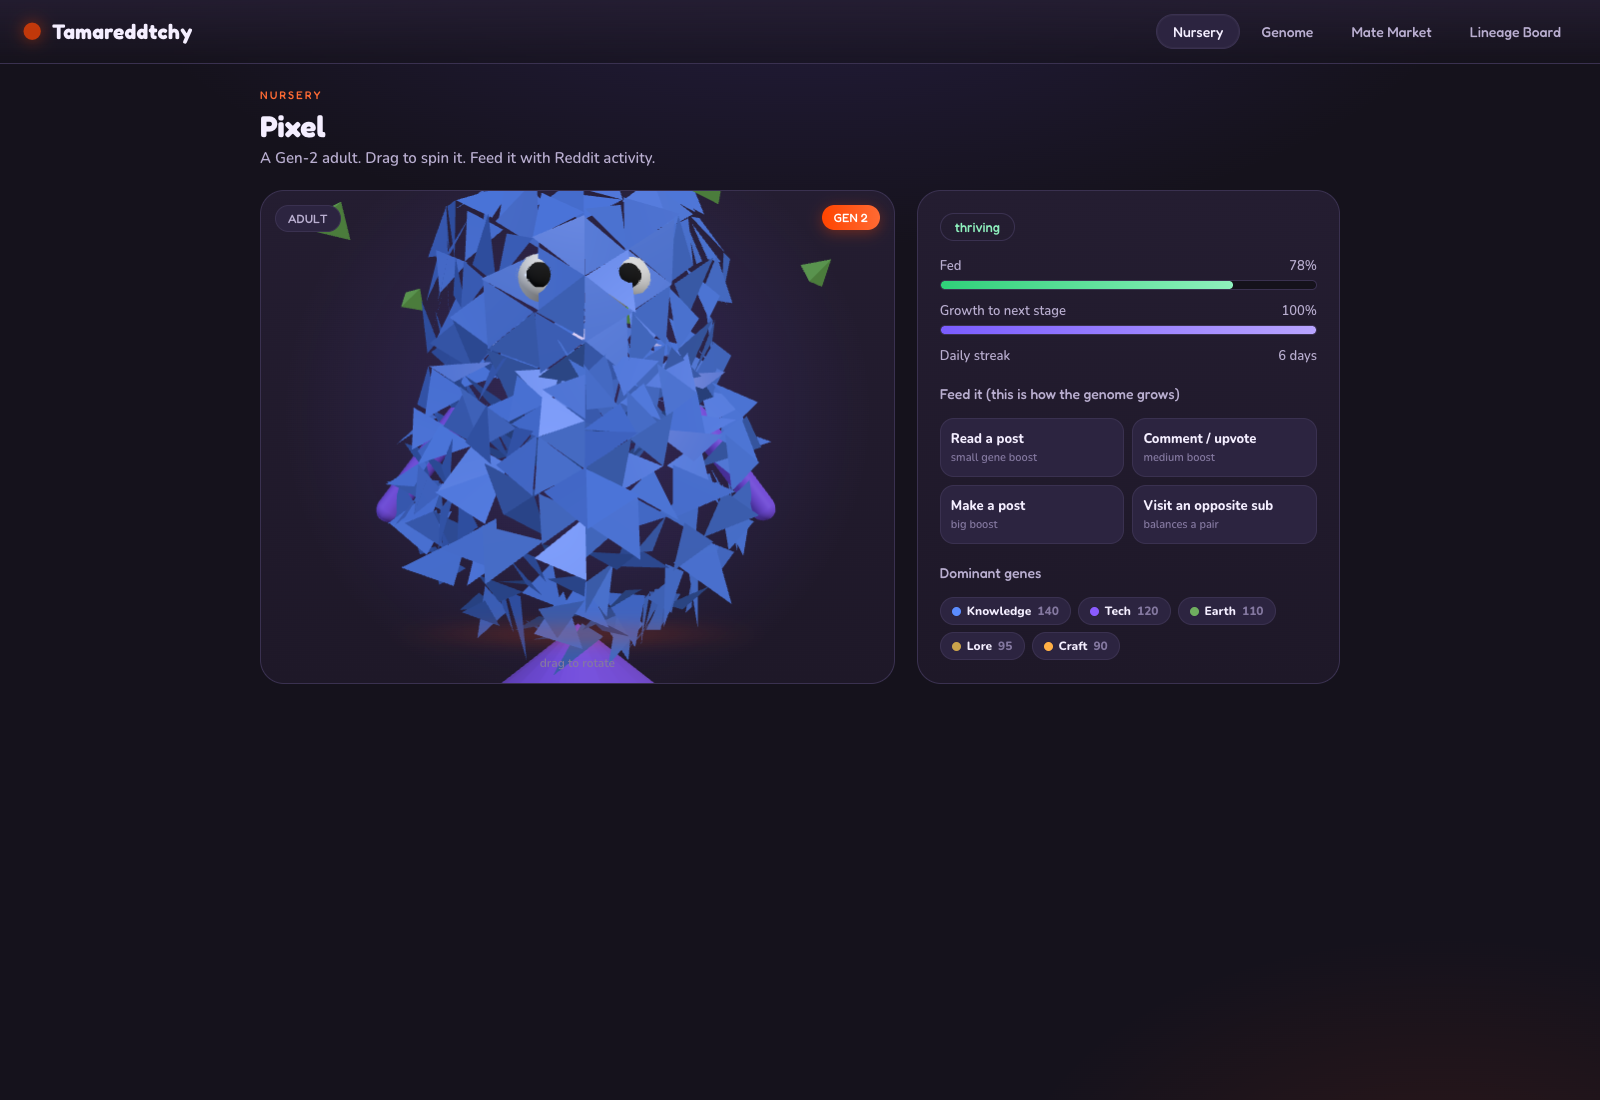
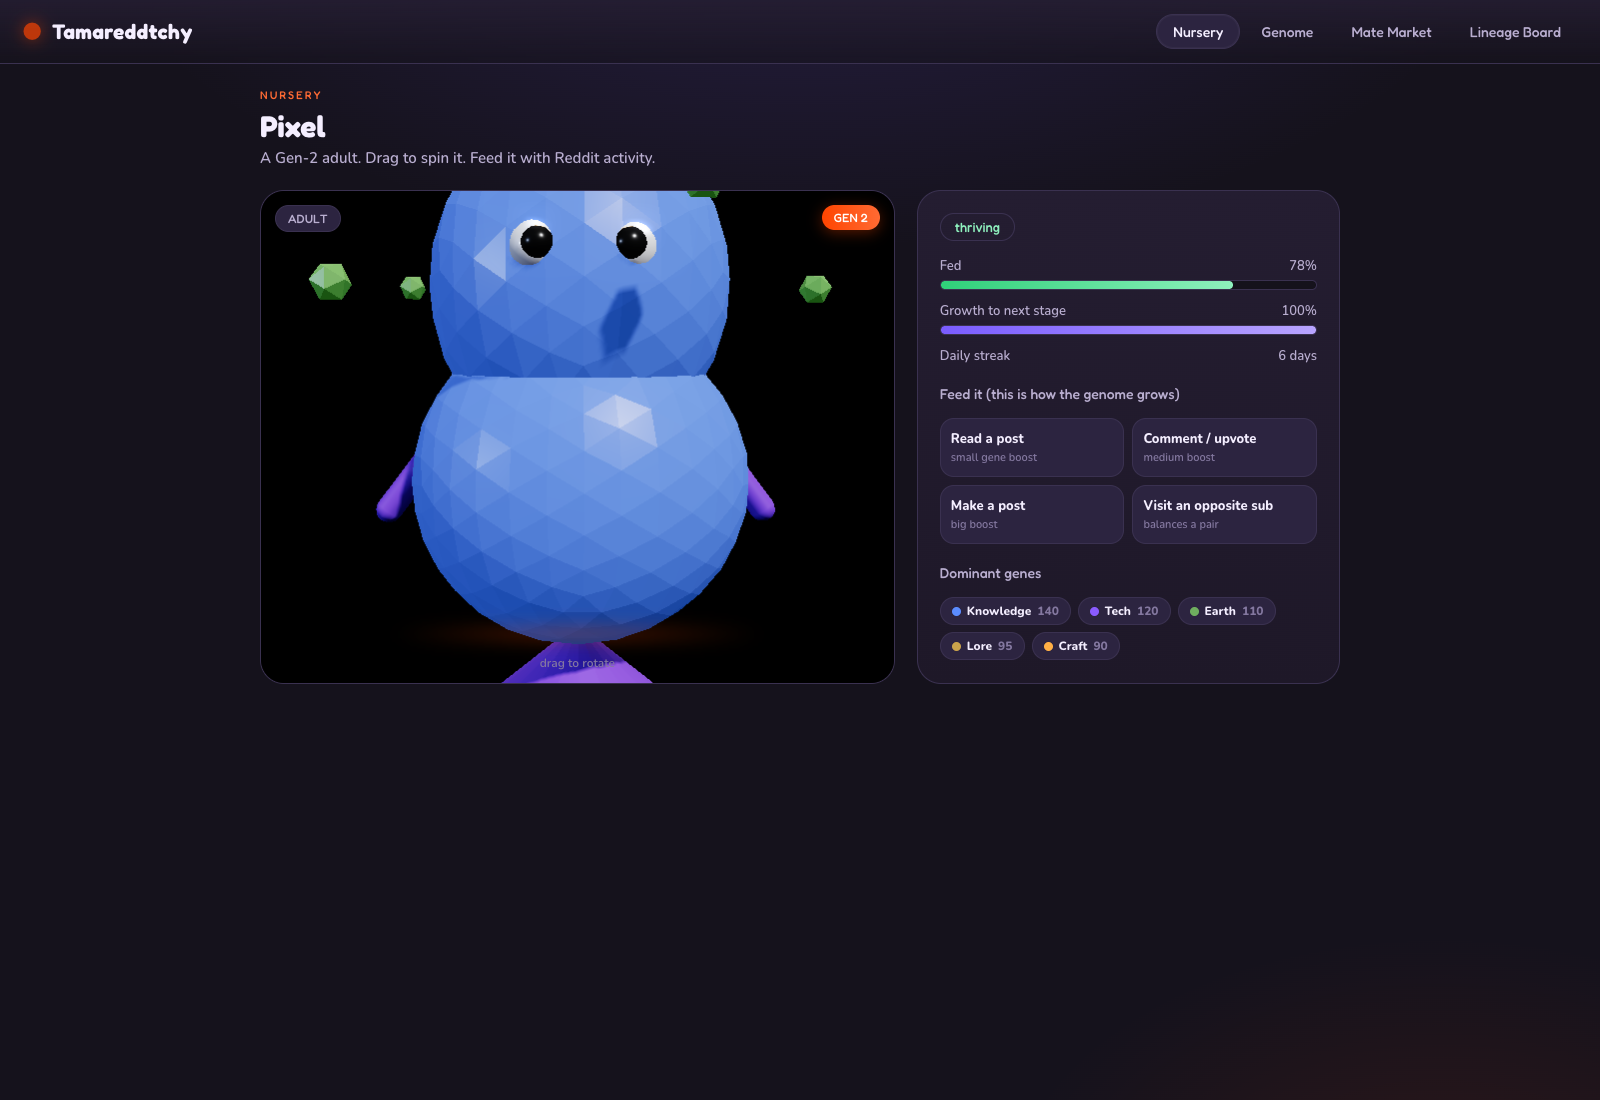
feat: visual upgrade (smooth gooey body, nose/mouth, bloom, soft shadows, filmic tone)
- spatially-coherent blob displacement (lumps not spikes)
- nose + mouth as sub-features of the Tech/Heart face pair
- richer Earth/Fiction attributes (motes, horns, wizard orb)
- EffectComposer bloom, PCF soft shadows, ACES tone mapping

Changed region(s): [[0.1562, 0.1545, 0.5625, 0.6182]]

diff --git a/src/client/render.ts b/src/client/render.ts
@@ -44,33 +44,43 @@ export function creatureColors(genome: Genome): CreatureColors {
   return { primary: GENE_COLOR[a], secondary: GENE_COLOR[b ?? a] };
 }
 
-// A soft, organic blob: an icosphere we can dent. Reused for every body part so
-// the whole creature reads as one squishy material.
+// A soft, organic blob: a smooth icosphere we dent with low-frequency, spatially
+// coherent noise so it reads as gooey lumps, not spikes. Reused for every body
+// part so the whole creature looks like one squishy material.
 function blob(radius: number, detail: number, color: number, wobble = 0): THREE.Mesh {
   const geo = new THREE.IcosahedronGeometry(radius, detail);
   if (wobble > 0) {
     const pos = geo.attributes.position;
+    const amp = Math.min(0.22, wobble * 0.16); // damped: lumps, never thorns
     for (let i = 0; i < pos.count; i++) {
-      const n = 1 + (pseudoNoise(i) - 0.5) * wobble;
-      pos.setXYZ(i, pos.getX(i) * n, pos.getY(i) * n, pos.getZ(i) * n);
+      const x = pos.getX(i), y = pos.getY(i), z = pos.getZ(i);
+      // Sum of a few low-frequency sine bands keyed on POSITION (not index), so
+      // neighbouring vertices move together into smooth bulges.
+      const d =
+        Math.sin(x * 1.7 + 0.5) * Math.cos(y * 1.9) +
+        Math.sin(y * 2.3 + 1.3) * Math.cos(z * 1.5) +
+        Math.sin(z * 1.6 + 2.1) * Math.cos(x * 2.0);
+      const n = 1 + (d / 3) * amp;
+      pos.setXYZ(i, x * n, y * n, z * n);
     }
     pos.needsUpdate = true;
-    geo.computeVertexNormals();
   }
-  const mat = new THREE.MeshStandardMaterial({
-    color,
-    roughness: 0.45,
-    metalness: 0.05,
-    flatShading: false,
-  });
-  return new THREE.Mesh(geo, mat);
+  geo.computeVertexNormals();
+  return new THREE.Mesh(geo, skinMaterial(color));
 }
 
-// Deterministic per-vertex jitter (no Math.random: keeps render reproducible and
-// testable). Cheap hash -> 0..1.
-function pseudoNoise(i: number): number {
-  const x = Math.sin(i * 12.9898) * 43758.5453;
-  return x - Math.floor(x);
+// Soft, slightly translucent "squishy pet" skin. A touch of emissive in the
+// body color fakes subsurface glow; low roughness gives a wet, alive sheen.
+function skinMaterial(color: number): THREE.MeshStandardMaterial {
+  const c = new THREE.Color(color);
+  const emissive = c.clone().multiplyScalar(0.18);
+  return new THREE.MeshStandardMaterial({
+    color,
+    roughness: 0.32,
+    metalness: 0.0,
+    emissive,
+    flatShading: false,
+  });
 }
 
 // Within-pair lean in [-1, 1]; positive favors the A (first) gene of the pair.
@@ -114,7 +124,7 @@ export function buildCreature(
   // --- Torso (pair: craft / mayhem). Order = tidy sphere, chaos = lumpy blob. ---
   const torsoLean = lean(genome, "craft", "mayhem"); // + = order, - = chaos
   const chaos = (0.5 - torsoLean / 2) * 0.9 + mutate * 0.5;
-  const body = blob(1, 4, colors.primary, chaos);
+  const body = blob(1, 5, colors.primary, chaos); // higher detail = gooier
   body.scale.set(1, 1.05 - torsoLean * 0.15, 1);
   group.add(body);
 
@@ -122,29 +132,62 @@ export function buildCreature(
   const headGroup = new THREE.Group();
   const headLean = lean(genome, "knowledge", "vitality");
   const headSize = 0.55 + magnitude(genome, "knowledge", "vitality") * 0.25 + (headLean > 0 ? 0.12 : 0);
-  const head = blob(headSize, 3, colors.primary, 0.15 + mutate * 0.3);
+  const head = blob(headSize, 4, colors.primary, 0.15 + mutate * 0.3);
   head.scale.y = headLean > 0 ? 1.15 : 0.92; // domed vs sleek
   headGroup.add(head);
-  headGroup.position.set(0, 1.05, 0);
+  // Sit the head above and slightly forward of the torso so the face is never
+  // occluded by the body's lumps.
+  headGroup.position.set(0, 1.15, 0.12);
 
-  // --- Eyes / face (pair: tech / heart). Tech = small visor eyes, heart = big. ---
+  // --- Face: eyes, nose, mouth (all the pair: tech / heart). ---
+  // Tech leans toward a small, cool, deadpan visor face; Heart leans toward big
+  // warm eyes, a button nose, and a wide smile. Nose and mouth are sub-features
+  // of the same pair, so the face reads as one coherent expression.
   const eyeLean = lean(genome, "tech", "heart"); // + tech, - heart
-  const eyeR = eyeLean < 0 ? 0.22 : 0.13; // heart = big doe eyes
+  const warm = (1 - eyeLean) / 2; // 0 = full tech, 1 = full heart
+  const eyeR = 0.13 + warm * 0.11; // heart = big doe eyes
+  const faceZ = headSize * 0.82;
   const eyes: THREE.Mesh[] = [];
   for (const dx of [-0.22, 0.22]) {
     const white = new THREE.Mesh(
-      new THREE.SphereGeometry(eyeR, 16, 16),
-      new THREE.MeshStandardMaterial({ color: 0xffffff, roughness: 0.2 }),
+      new THREE.SphereGeometry(eyeR, 20, 20),
+      new THREE.MeshStandardMaterial({ color: 0xffffff, roughness: 0.12, metalness: 0 }),
     );
-    white.position.set(dx, 0.02, headSize * 0.82);
+    white.position.set(dx, 0.04, faceZ);
     const pupil = new THREE.Mesh(
-      new THREE.SphereGeometry(eyeR * 0.55, 12, 12),
-      new THREE.MeshStandardMaterial({ color: 0x161616 }),
+      new THREE.SphereGeometry(eyeR * 0.55, 14, 14),
+      new THREE.MeshStandardMaterial({ color: 0x161616, roughness: 0.2 }),
     );
-    pupil.position.set(dx, 0.02, headSize * 0.82 + eyeR * 0.6);
-    headGroup.add(white, pupil);
+    pupil.position.set(dx, 0.04, faceZ + eyeR * 0.62);
+    // tiny catchlight for the "alive" look
+    const glint = new THREE.Mesh(
+      new THREE.SphereGeometry(eyeR * 0.18, 8, 8),
+      new THREE.MeshStandardMaterial({ color: 0xffffff, emissive: 0x888888 }),
+    );
+    glint.position.set(dx + eyeR * 0.2, 0.04 + eyeR * 0.25, faceZ + eyeR * 0.7);
+    headGroup.add(white, pupil, glint);
     eyes.push(white);
   }
+
+  // Nose: a small button (heart) shrinking to almost nothing (tech).
+  const noseR = 0.04 + warm * 0.06;
+  const nose = new THREE.Mesh(
+    new THREE.SphereGeometry(noseR, 12, 12),
+    skinMaterial(colors.secondary),
+  );
+  nose.position.set(0, -0.06, faceZ + 0.04);
+  headGroup.add(nose);
+
+  // Mouth: a torus arc. Heart = wide upward smile; tech = small flat line.
+  const smile = -0.4 + warm * 1.2; // controls how curved/wide
+  const mouth = new THREE.Mesh(
+    new THREE.TorusGeometry(0.08 + warm * 0.1, 0.022, 8, 16, Math.PI * (0.6 + warm * 0.8)),
+    new THREE.MeshStandardMaterial({ color: 0x2a1418, roughness: 0.5 }),
+  );
+  mouth.position.set(0, -0.2 - warm * 0.04, faceZ);
+  mouth.rotation.z = Math.PI + (smile < 0 ? Math.PI : 0); // flip for frown vs smile
+  headGroup.add(mouth);
+
   group.add(headGroup);
 
   // --- Arms (pair: pulse / lore). Now = antenna arms, forever = scroll arms. ---
@@ -188,31 +231,47 @@ export function buildCreature(
   }
   group.add(legGroup);
 
-  // --- Accessory / aura (pair: earth / fiction). Real = leaf/star, dream = hat. ---
+  // --- Attributes / aura (pair: earth / fiction). Real = orbiting nature motes
+  // and little horns; dream = wizard hat plus a glowing magic orb. The number of
+  // attributes scales with the pair magnitude, so a developed creature is more
+  // decorated. Generation adds extra motes on top, so prestige is visible. ---
   const accGroup = new THREE.Group();
   const accLean = lean(genome, "earth", "fiction"); // + earth, - fiction
   const accMag = magnitude(genome, "earth", "fiction");
   if (accMag > 0.12) {
     if (accLean >= 0) {
-      // Earth: little orbiting leaves/stars
-      const n = 3 + Math.round(accMag * 3);
+      // Earth: glowing orbiting motes + two little nub horns.
+      const n = 3 + Math.round(accMag * 3) + Math.round(mutate * 2);
       for (let i = 0; i < n; i++) {
         const ang = (i / n) * Math.PI * 2;
         const star = new THREE.Mesh(
-          new THREE.TetrahedronGeometry(0.12),
-          new THREE.MeshStandardMaterial({ color: GENE_COLOR.earth, emissive: 0x224411, roughness: 0.4 }),
+          new THREE.IcosahedronGeometry(0.1, 0),
+          new THREE.MeshStandardMaterial({ color: GENE_COLOR.earth, emissive: 0x2e5a1c, emissiveIntensity: 0.8, roughness: 0.35 }),
         );
-        star.position.set(Math.cos(ang) * 1.5, 1.3, Math.sin(ang) * 1.5);
+        star.position.set(Math.cos(ang) * 1.5, 1.2 + Math.sin(ang * 2) * 0.2, Math.sin(ang) * 1.5);
         accGroup.add(star);
       }
+      for (const dx of [-0.22, 0.22]) {
+        const horn = new THREE.Mesh(
+          new THREE.ConeGeometry(0.06, 0.22, 10),
+          skinMaterial(colors.secondary),
+        );
+        horn.position.set(dx, 1.05 + headSize * 0.85, 0);
+        accGroup.add(horn);
+      }
     } else {
-      // Fiction: a wizard hat / cape
+      // Fiction: a wizard hat plus a floating glowing orb.
       const hat = new THREE.Mesh(
-        new THREE.ConeGeometry(0.45, 0.9, 16),
-        new THREE.MeshStandardMaterial({ color: GENE_COLOR.fiction, roughness: 0.4, emissive: 0x1a0033 }),
+        new THREE.ConeGeometry(0.45, 0.9, 20),
+        new THREE.MeshStandardMaterial({ color: GENE_COLOR.fiction, roughness: 0.35, emissive: 0x2a0a55, emissiveIntensity: 0.7 }),
       );
       hat.position.set(0, 1.05 + headSize, 0);
-      accGroup.add(hat);
+      const orb = new THREE.Mesh(
+        new THREE.SphereGeometry(0.13, 16, 16),
+        new THREE.MeshStandardMaterial({ color: 0xffffff, emissive: GENE_COLOR.fiction, emissiveIntensity: 1.4, roughness: 0.1 }),
+      );
+      orb.position.set(0.9, 0.9, 0.3);
+      accGroup.add(hat, orb);
     }
   }
   group.add(accGroup);

diff --git a/src/client/scene.ts b/src/client/scene.ts
@@ -4,6 +4,9 @@
 // so this is not unit-tested; the pure geometry in render.ts is.
 
 import * as THREE from "three";
+import { EffectComposer } from "three/examples/jsm/postprocessing/EffectComposer.js";
+import { RenderPass } from "three/examples/jsm/postprocessing/RenderPass.js";
+import { UnrealBloomPass } from "three/examples/jsm/postprocessing/UnrealBloomPass.js";
 import { buildCreature, type BuildResult } from "./render.js";
 import type { Genome } from "../shared/genome.js";
 
@@ -23,10 +26,17 @@ export class CreatureScene {
   private mood: Mood = "happy";
   private bounce = 0; // decays; spikes when fed
   private raf = 0;
+  private composer: EffectComposer;
+  private bloom: UnrealBloomPass;
 
   constructor(private host: HTMLElement) {
     this.renderer = new THREE.WebGLRenderer({ antialias: true, alpha: true });
     this.renderer.setPixelRatio(Math.min(2, window.devicePixelRatio));
+    this.renderer.shadowMap.enabled = true;
+    this.renderer.shadowMap.type = THREE.PCFSoftShadowMap;
+    // Filmic tone mapping makes the emissive glow read as light, not flat color.
+    this.renderer.toneMapping = THREE.ACESFilmicToneMapping;
+    this.renderer.toneMappingExposure = 1.15;
     this.resize();
     host.appendChild(this.renderer.domElement);
 
@@ -34,16 +44,42 @@ export class CreatureScene {
     this.camera = new THREE.PerspectiveCamera(42, this.aspect(), 0.1, 100);
     this.camera.position.set(0, 0.3, 4.4);
 
-    // Soft three-point-ish lighting for a friendly, alive look.
-    const key = new THREE.DirectionalLight(0xffffff, 1.6);
-    key.position.set(3, 4, 5);
+    // Soft, warm-cool key/fill/rim plus a hemisphere for gentle ambient bounce.
+    const key = new THREE.DirectionalLight(0xffffff, 2.0);
+    key.position.set(3, 5, 5);
+    key.castShadow = true;
+    key.shadow.mapSize.set(1024, 1024);
+    key.shadow.camera.near = 0.5;
+    key.shadow.camera.far = 20;
+    key.shadow.bias = -0.0008;
     const fill = new THREE.DirectionalLight(0xbcd4ff, 0.6);
     fill.position.set(-4, 1, 2);
-    const rim = new THREE.DirectionalLight(0xffd9a8, 0.5);
+    const rim = new THREE.DirectionalLight(0xffd9a8, 0.7);
     rim.position.set(0, 3, -4);
-    this.scene.add(key, fill, rim, new THREE.AmbientLight(0xffffff, 0.55));
+    this.scene.add(
+      key,
+      fill,
+      rim,
+      new THREE.HemisphereLight(0xcfe0ff, 0x3a2a55, 0.7),
+    );
+
+    // A soft contact-shadow floor so the creature feels grounded in the dish.
+    const floor = new THREE.Mesh(
+      new THREE.CircleGeometry(2.4, 48),
+      new THREE.ShadowMaterial({ opacity: 0.35 }),
+    );
+    floor.rotation.x = -Math.PI / 2;
+    floor.position.y = -1.45;
+    floor.receiveShadow = true;
+    this.scene.add(floor);
 
     this.scene.add(this.rig);
+
+    // Soft bloom so the aura, orb, and emissive skin glow.
+    this.composer = new EffectComposer(this.renderer);
+    this.composer.addPass(new RenderPass(this.scene, this.camera));
+    this.bloom = new UnrealBloomPass(new THREE.Vector2(1, 1), 0.5, 0.55, 0.7);
+    this.composer.addPass(this.bloom);
 
     this.bindDrag();
     window.addEventListener("resize", () => this.resize());
@@ -62,6 +98,8 @@ export class CreatureScene {
       this.camera.aspect = this.aspect();
       this.camera.updateProjectionMatrix();
     }
+    this.composer?.setSize(r.width, r.height);
+    this.bloom?.setSize(r.width, r.height);
   }
 
   private bindDrag() {
@@ -78,6 +116,11 @@ export class CreatureScene {
   setCreature(genome: Genome, generation: number, xp: number) {
     this.rig.clear();
     this.built = buildCreature(genome, generation, xp);
+    // Every solid mesh casts and receives soft shadows.
+    this.built.group.traverse((o) => {
+      const m = o as THREE.Mesh;
+      if (m.isMesh) { m.castShadow = true; m.receiveShadow = true; }
+    });
     this.rig.add(this.built.group);
   }
 
@@ -112,11 +155,12 @@ export class CreatureScene {
       const blink = Math.sin(this.t * 0.6) > 0.97 ? 0.1 : 1;
       for (const e of eyes) e.scale.y = blink;
     }
-    this.renderer.render(this.scene, this.camera);
+    this.composer.render();
   };
 
   dispose() {
     cancelAnimationFrame(this.raf);
+    this.composer.dispose();
     this.renderer.dispose();
     this.renderer.domElement.remove();
   }